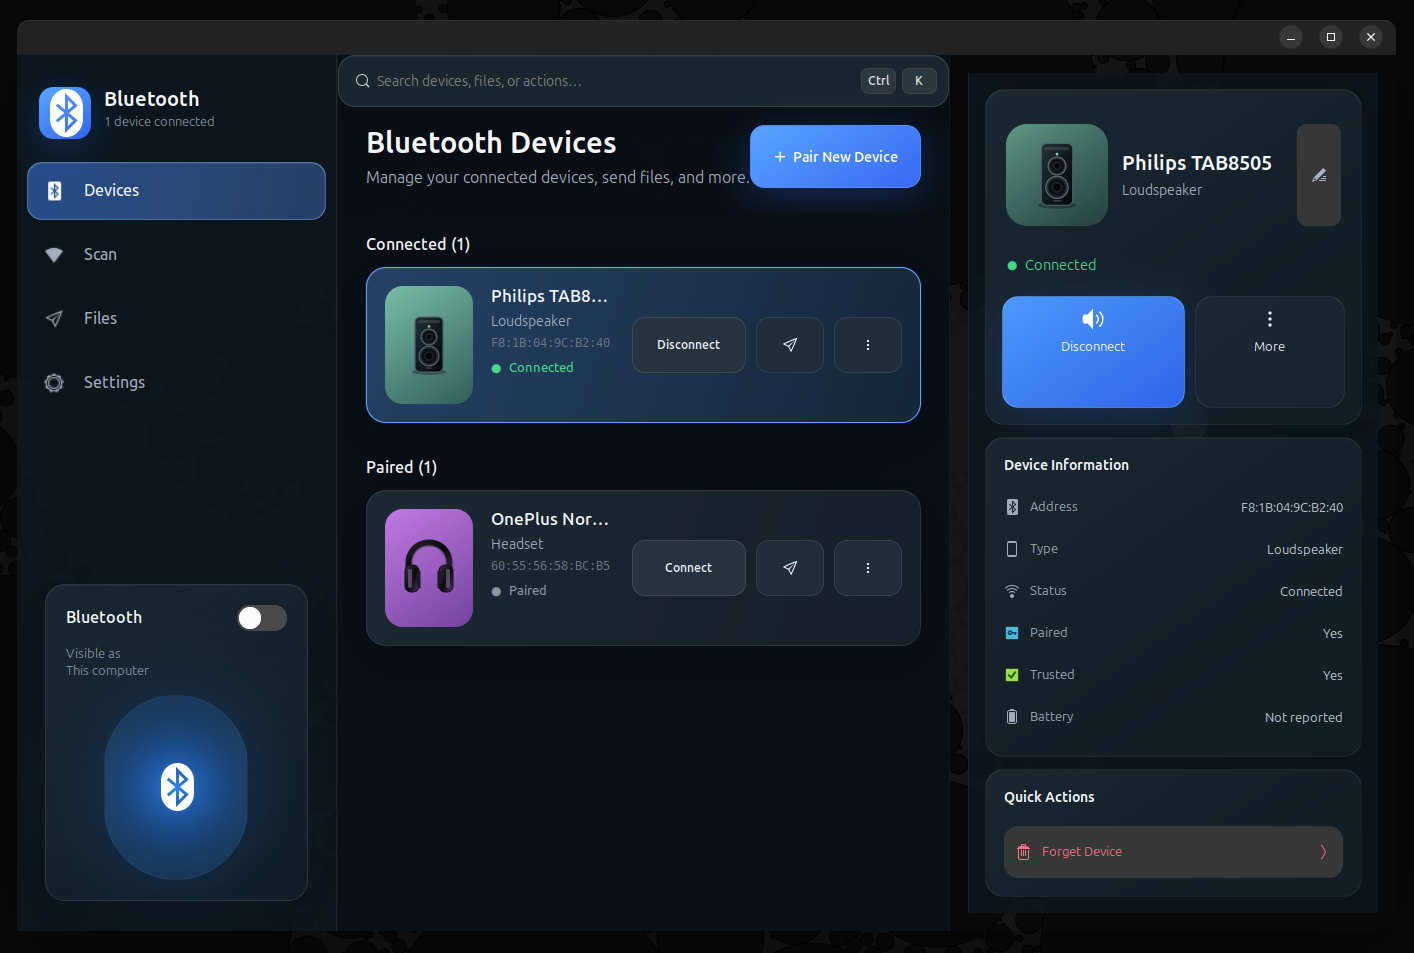
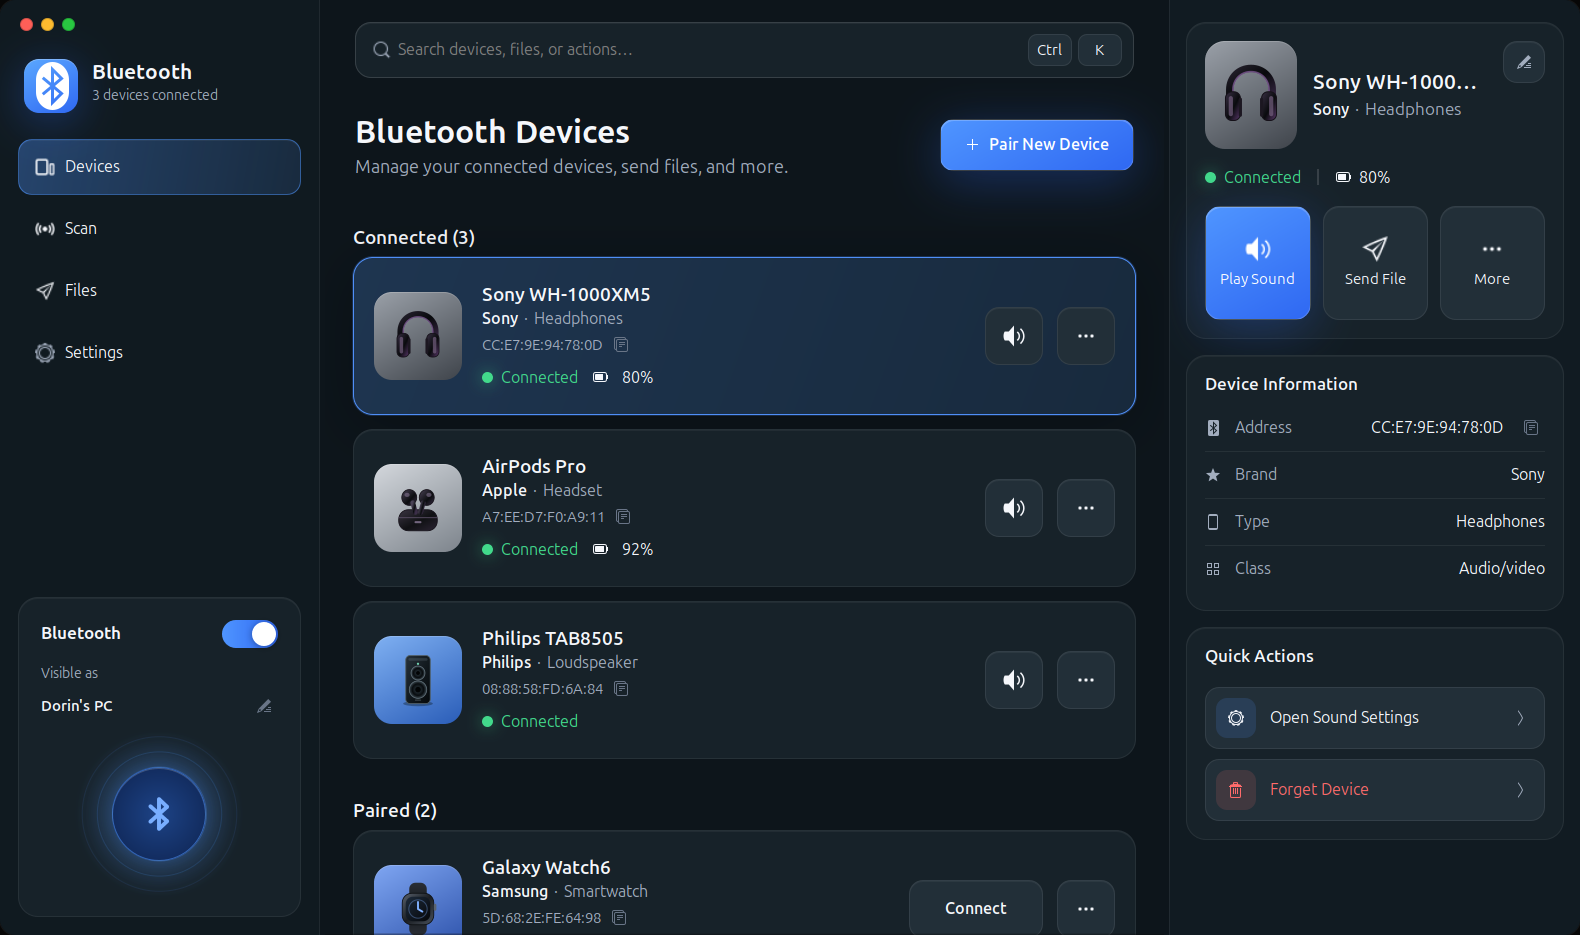
fix: recognise model numbers in product kinds; refresh screenshot
'Galaxy Watch6' and 'Galaxy Buds2' showed no product kind because the
word-boundary patterns rejected a trailing model number. Refresh the
README screenshot with mocked known-brand devices (random addresses).

diff --git a/blueman/gui/manager/DeviceBrands.py b/blueman/gui/manager/DeviceBrands.py
@@ -82,9 +82,10 @@ class ProductKind:
     CONTROLLER = "controller"
 
 
+# Model numbers often follow the product word directly ("Watch6", "Buds2"), hence the \d*.
 _KIND_PATTERNS = (
-    (ProductKind.WATCH, r"\bwatch\b|\bband\b|\bforerunner\b|\bf[eē]nix\b|\bvenu\b|\bamazfit\b"),
-    (ProductKind.EARBUDS, r"\bbuds\b|\bairpods\b|\bearbuds\b|\bfreebuds\b|\blinkbuds\b|\bwf-\w+|\bear ?\(\d"),
+    (ProductKind.WATCH, r"\bwatch\d*\b|\bband\d*\b|\bforerunner\b|\bf[eē]nix\b|\bvenu\b|\bamazfit\b"),
+    (ProductKind.EARBUDS, r"\bbuds\d*\b|\bairpods\b|\bearbuds\b|\bfreebuds\b|\blinkbuds\b|\bwf-\w+|\bear ?\(\d"),
     (ProductKind.HEADPHONES, r"\bheadphones?\b|\bwh-\w+|\bquietcomfort\b|\bmomentum\b"),
     (ProductKind.SPEAKER, r"\bspeaker\b|\bsoundlink\b|\bsoundbar\b|\bsrs-\w+"),
     (ProductKind.CONTROLLER, r"\bcontroller\b|\bdualsense\b|\bjoy-con\b|\bgamepad\b"),

diff --git a/test/gui/manager/test_device_brands.py b/test/gui/manager/test_device_brands.py
@@ -59,6 +59,9 @@ class TestBrandDetection(unittest.TestCase):
     def test_product_kind_only_replaces_uninformative_classes(self) -> None:
         self.assertEqual(product_kind("realme Watch 5"), ProductKind.WATCH)
         self.assertEqual(product_kind("OnePlus Nord Buds 3 Pro"), ProductKind.EARBUDS)
+        self.assertEqual(product_kind("Galaxy Watch6"), ProductKind.WATCH)
+        self.assertEqual(product_kind("Galaxy Buds2 Pro"), ProductKind.EARBUDS)
+        self.assertIsNone(product_kind("Watchtower Hub"))
         self.assertIsNone(product_kind("Philips TAB8505"))
         self.assertEqual(display_category("Unknown", ProductKind.WATCH), "Smartwatch")
         self.assertEqual(display_category("Headset", ProductKind.EARBUDS), "Headset")
